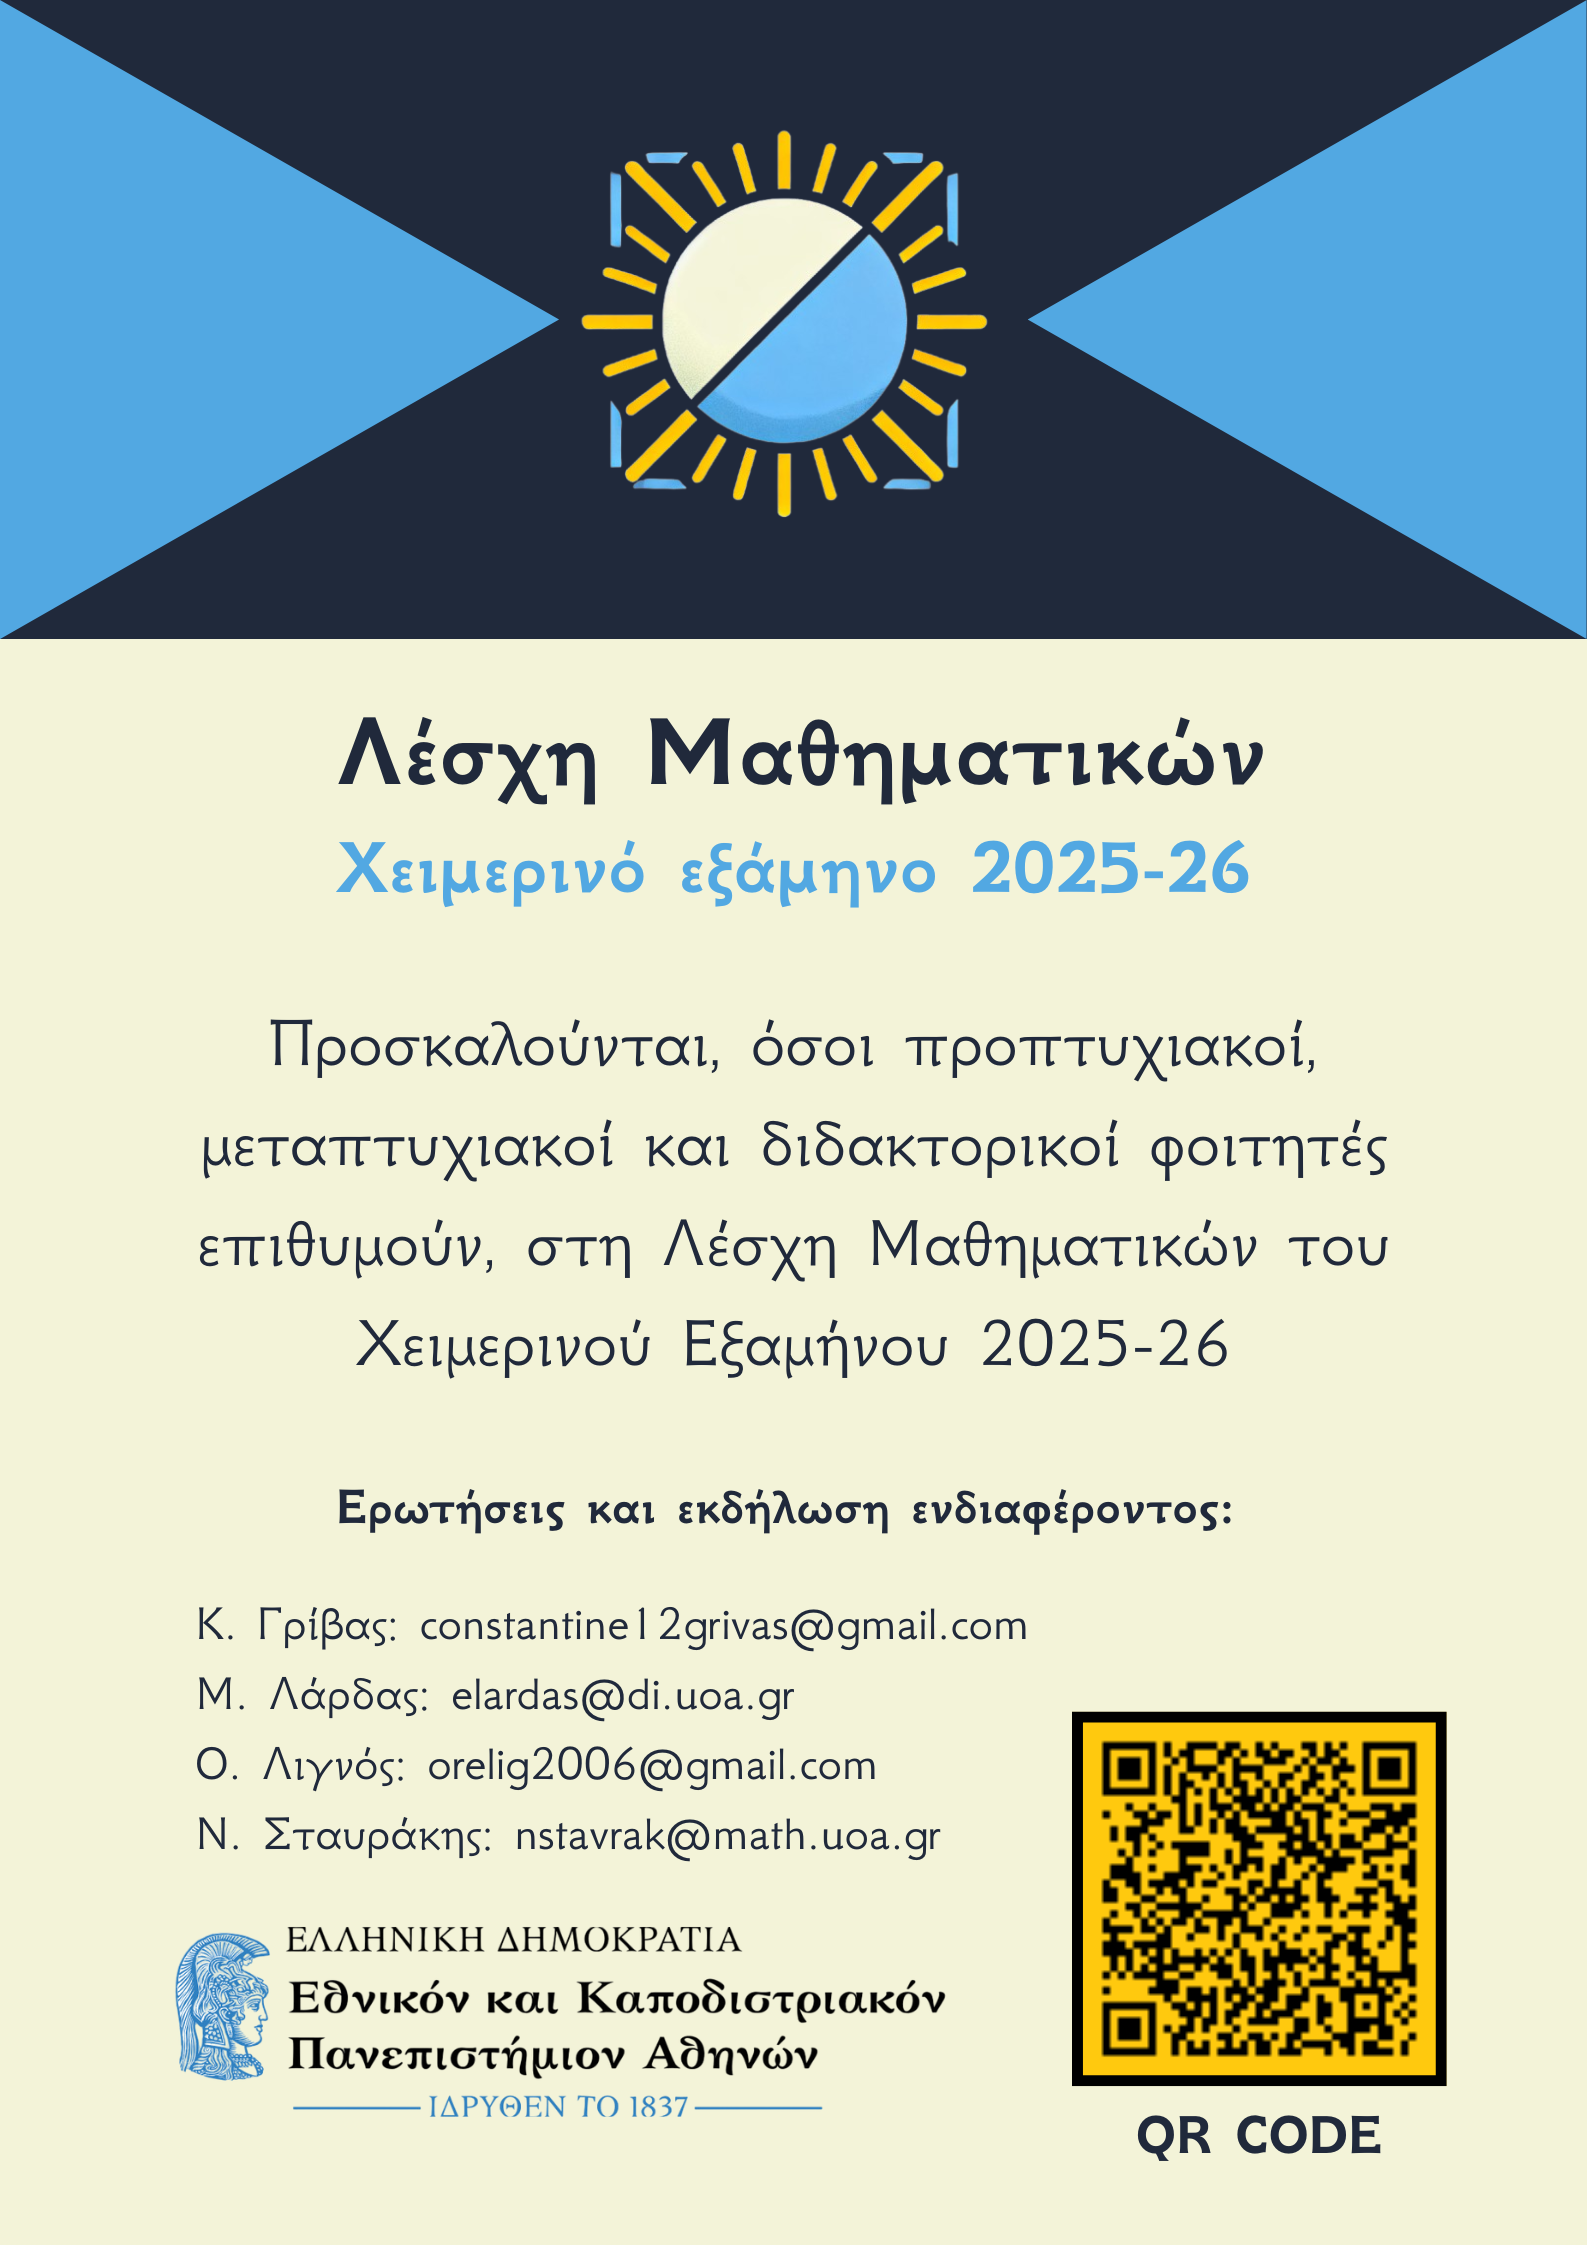
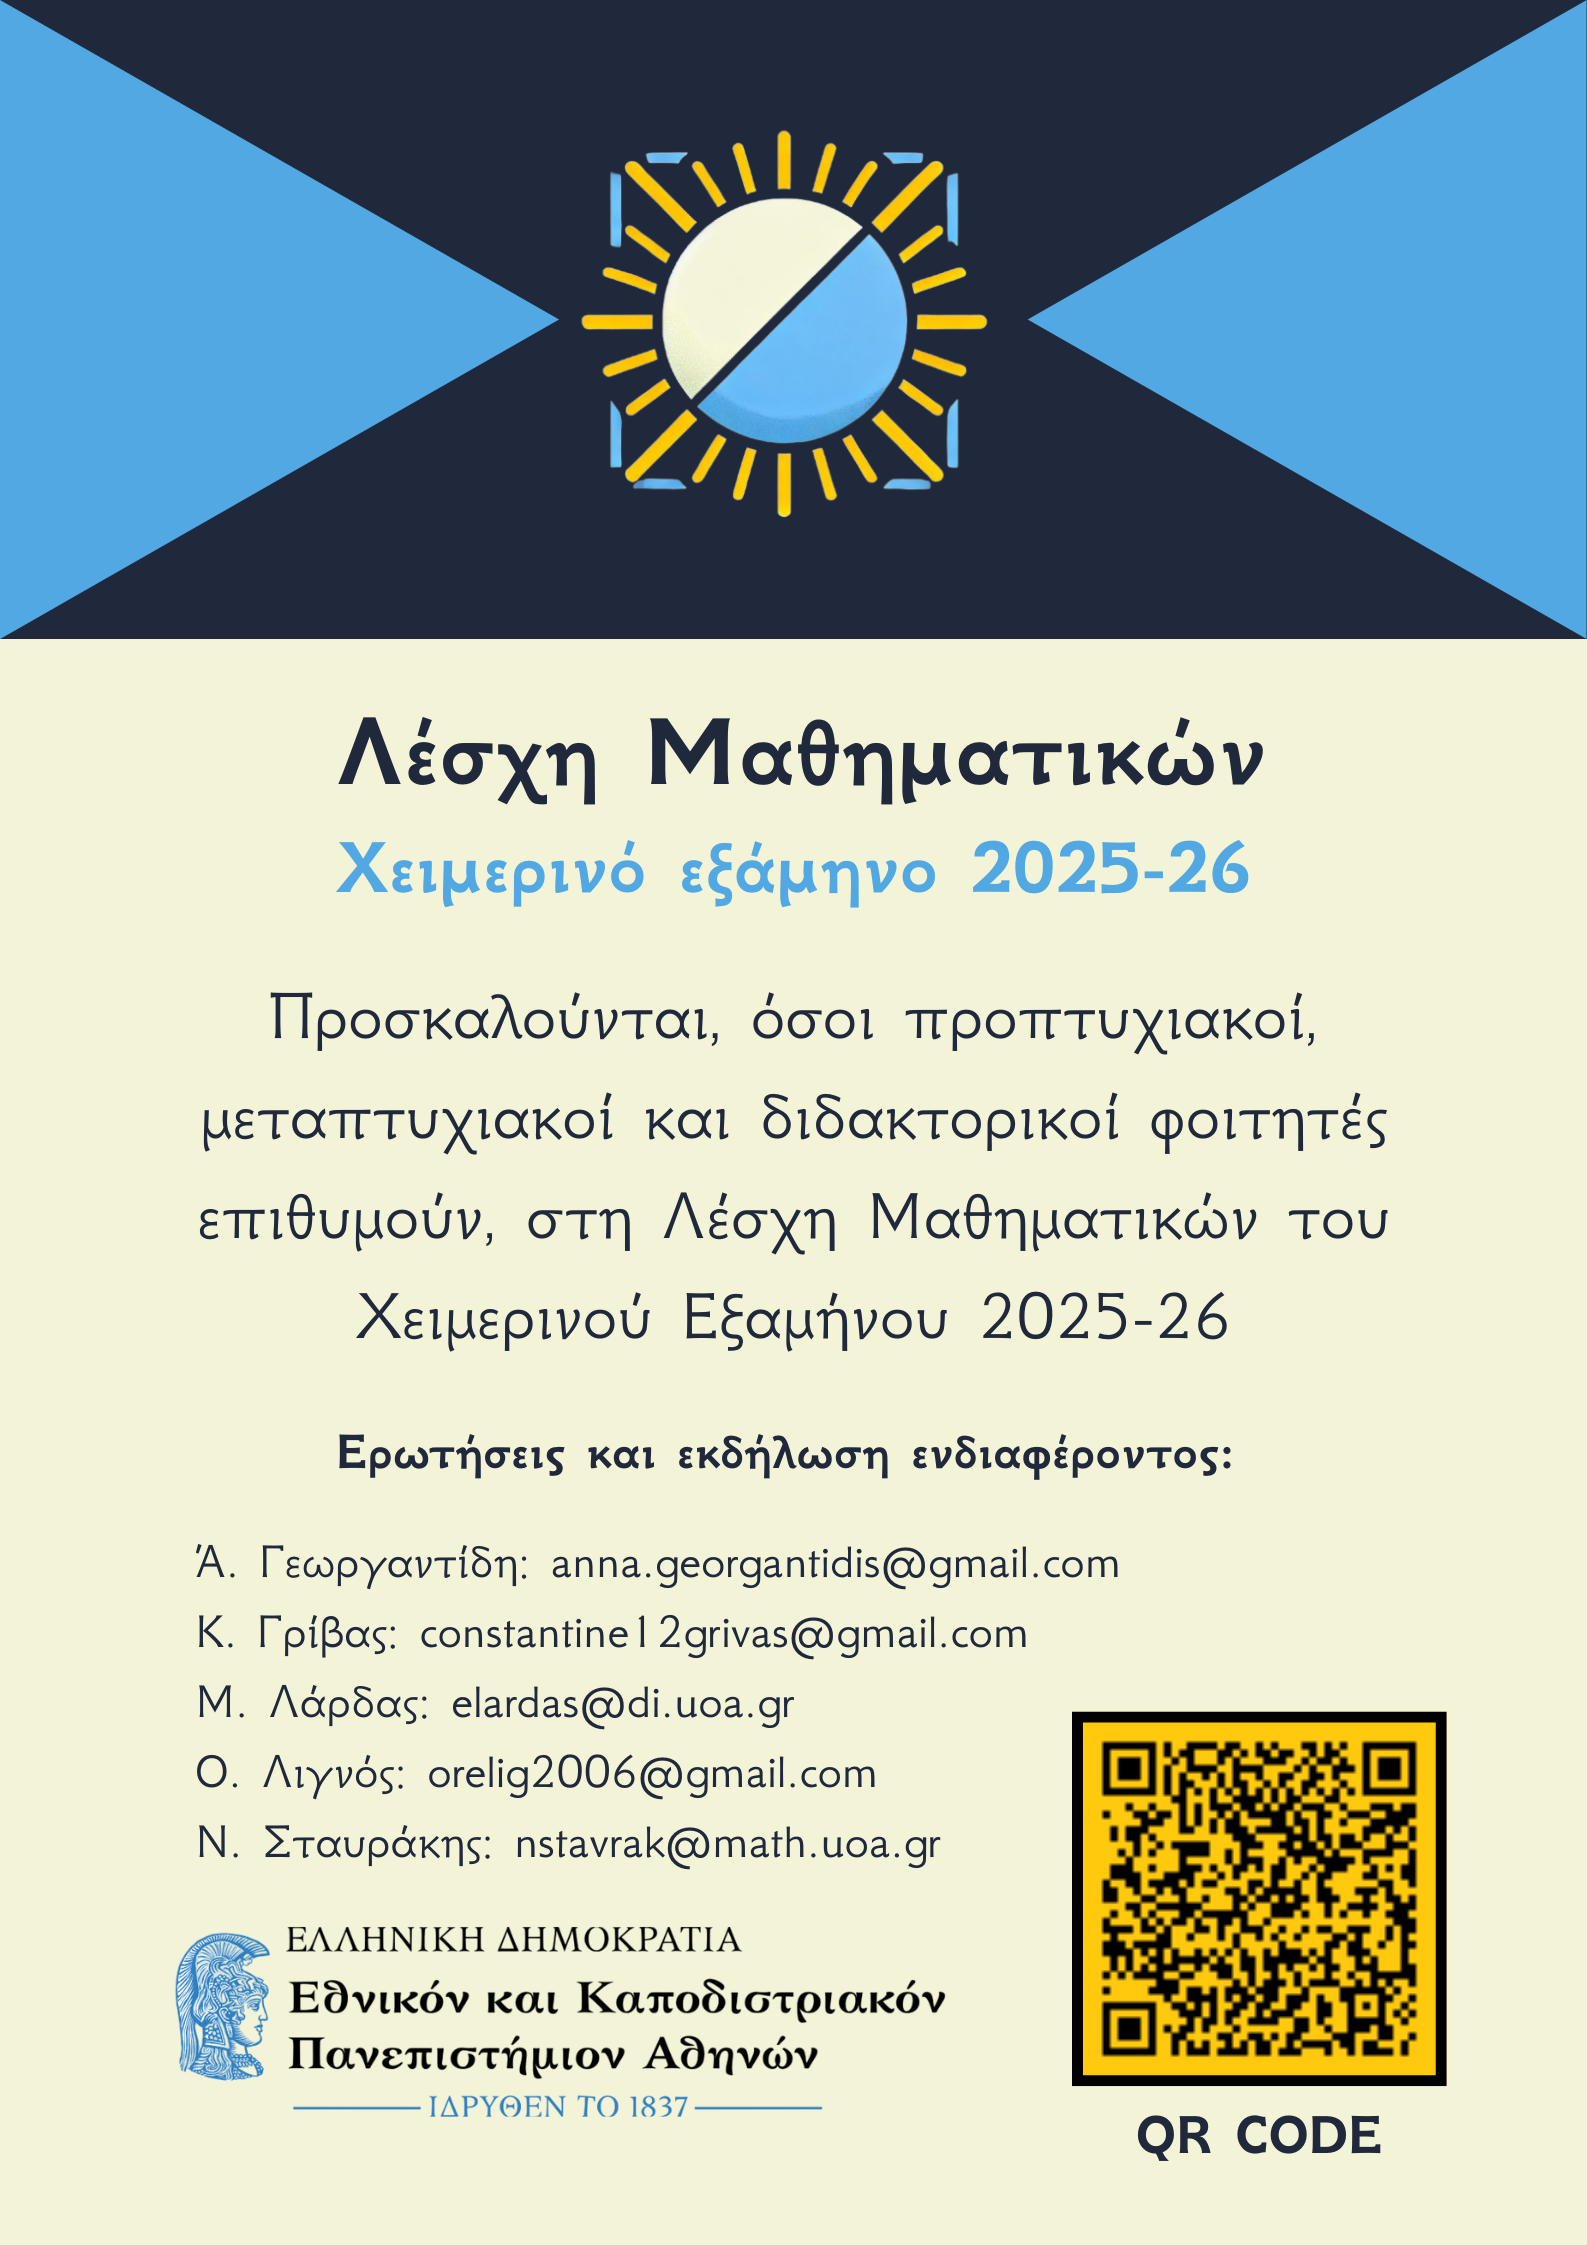
update

Changed region(s): [[0.1235, 0.4365, 0.8645, 0.8419]]

diff --git a/seminars/gradclubfiles/w2025-26/participants.html b/seminars/gradclubfiles/w2025-26/participants.html
@@ -1,0 +1,108 @@
+<!DOCTYPE html PUBLIC "-//W3C//DTD XHTML 1.0 Strict//EN" "http://www.w3.org/TR/xhtml1/DTD/xhtml1-strict.dtd">
+<html xmlns="http://www.w3.org/1999/xhtml">
+
+<head>
+<title>Λέσχη Μαθηματικών 3</title>
+<meta http-equiv="Content-Type" content="text/html; charset=utf-8" />
+<meta content="width=device-width, initial-scale=1" name="viewport"/>
+
+<link rel="icon" href="../newgradclub-nobg.png">
+<link href="../../style2.css" rel="stylesheet" type="text/css" />
+
+</head>
+
+<body>
+  <div class="map">
+    <a href="../../gradclub3.html">ΑΡΧΙΚΗ</a> &nbsp;&nbsp; <a href="program.html">ΠΡΟΓΡΑΜΜΑ</a> &nbsp;&nbsp; <a href="propositions.html">ΘΕΜΑΤΑ</a> &nbsp;&nbsp; <a href="contact.html">ΕΠΙΚΟΙΝΩΝΙΑ</a> &nbsp;&nbsp; <a href="archive.html">ΑΡΧΕΙΟ</a>
+  </div>
+  <div class="mapmobile">
+    <span style="font-size:30px;cursor:pointer" onclick="openNav()">&#9778;</span>
+  </div>
+  <div id="mapmobilecontent" class="overlay">
+      <a href="javascript:void(0)" class="closebtn" onclick="closeNav()">&times;</a>
+      <div class="overlay-content">
+        <a href="../../gradclub3.html" onclick="closeNav()">Αρχική</a>
+        <a href="program.html" onclick="closeNav()">Πρόγραμμα</a>
+        <a href="propositions.html" onclick="closeNav()">Θέματα</a>
+        <a href="contact.html" onclick="closeNav()">Επικοινωνία</a>
+        <a href="archive.html" onclick="closeNav()">Αρχείο</a>
+      </div>
+  </div>
+  <div class="container"></div>
+  <div class="titlemobile">
+    <img src="../newgradclub-nobg.png" width="30%">
+    <h1 style="color: rgb(255,255,199)">
+      Λέσχη Μαθηματικών
+    </h1>
+    <p>
+      <b style="color: rgb(255,255,199)">Χειμερινό εξάμηνο 2025-26, Τμ. Μαθηματικών ΕΚΠΑ</b>
+    </p>
+  </div>
+  <div class="main">
+    <div class="title2">
+      <h1>
+        Λέσχη Μαθηματικών
+      </h1>
+      <p>
+        <b>Χειμερινό εξάμηνο 2024-25, Τμ. Μαθηματικών ΕΚΠΑ</b>
+      </p>
+    </div>
+    <div class="boxtitle">
+      Ομιλητές
+    </div>
+    <div class="box">
+      <p>
+        <ul>
+          <li>Μπλα</li>
+        </ul>
+      </p>
+    </div>
+    <div class="boxtitle">
+      Συμμετέχοντες
+    </div>
+    <div class="box">
+      <p>
+        <ul>
+          <li>Άννα Γεωργαντίδη</li>
+          <li>Κωνσταντίνος Γρίβας</li>
+          <li>Μανώλης Λάρδας</li>
+          <li>Ορέστης Λιγνός</li>
+          <li>Νεκτάριος Σταυράκης</li>
+          <li>Τάσος Φράγκος</li>
+        </ul>
+      </p>
+    </div>
+  </div>
+  <div class="foot">
+    <table>
+      <tr>
+        <th>
+          Συντεταγμένες
+        </th>
+        <th>
+          Η ομάδα
+        </th>
+      </tr>
+      <tr>
+        <td>
+          Πανεπιστημιούπολη Ζωγράφου<br>
+          Αθήνα, 157-84.
+        </td>
+        <td>
+          <a href="">Α. Γεωργαντίδη</a>, <a href="">K. Γρίβας</a>,<br>
+          <a href="">Μ. Λάρδας</a>, <a href="https://www.linkedin.com/in/orestis-lignos-b2583b247/">Ο. Λιγνός</a>,<br>
+          <a href="https://4studentsbystudents.wordpress.com/">Ν. Σταυράκης</a>, <a href="https://afragos-math.github.io/">Τ. Φράγκος</a>.
+        </td>
+      </tr>
+    </table>
+  </div>
+  <script>
+    function openNav() {
+      document.getElementById("mapmobilecontent").style.height = "100%";
+    }
+          
+    function closeNav() {
+      document.getElementById("mapmobilecontent").style.height = "0%";
+    }
+  </script>
+</body>

diff --git a/seminars/gradclub3.html b/seminars/gradclub3.html
@@ -92,7 +92,7 @@
       </p>
       <p>
         <ul>
-          <li>Άννα Γεωργαντίδη: ~~~ [at] gmail.com</li>
+          <li>Άννα Γεωργαντίδη: anna.georgantidis [at] gmail.com</li>
           <li>Κωνσταντίνος Γρίβας: constantine12grivas [at] gmail.com (Θεωρητικά Μαθηματικά)</li>
           <li>Μανώλης Λάρδας: elardas [at] di.uoa.gr (ΑΛΜΑ, Θεωρητικά Μαθηματικά)</li>
           <li>Ορέστης Λιγνός: orelig2006 [at] gmail.com</li>
